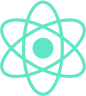
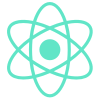
image and button centering fixes

diff --git a/index.html b/index.html
@@ -13,6 +13,10 @@
   <link href="https://fonts.googleapis.com/css?family=Montserrat:300,400" rel="stylesheet">
   <link rel="stylesheet" href="/css/bootstrap.css">
   <link rel="stylesheet" href="/css/style.css?2">
+  <link href="https://calendly.com/assets/external/widget.css" rel="stylesheet">
+
+  <script src="https://calendly.com/assets/external/widget.js" type="text/javascript"></script>
+
 </head>
 <body>
   <div class="green-section section">
@@ -20,7 +24,7 @@
       <div class="row">
         <div class="col-sm-12">
           <div class="logo-container">
-            <img src="/images/logo.png" alt="">
+            <img src="/images/logo.png" alt="" style="width:150px;">
           </div>
           <h1>
             Chemistry &amp; Math Tutoring
@@ -80,17 +84,11 @@
           </ul>
         </div>
       </div>
-      <div class="row">
+      <div class="row center">
         <div class="col-sm-8 col-sm-offset-2">
-          <p style="margin:0px;">
-<!-- Calendly link widget begin -->
-<link href="https://calendly.com/assets/external/widget.css" rel="stylesheet">
-<script src="https://calendly.com/assets/external/widget.js" type="text/javascript"></script>
-<a href="" onclick="Calendly.showPopupWidget('https://calendly.com/chemhelp');return false;">
-  <button class="btn btn-lg" style="background-color:#000; color:#fff ; padding: 15px 30px;">Schedule Now</button>
-            </a>
-<!-- Calendly link widget end -->
-          </p>
+          <a href="" onclick="Calendly.showPopupWidget('https://calendly.com/chemhelp');return false;">
+            <button class="btn btn-lg" style="background-color:#000; color:#fff ; padding: 15px 30px;">Schedule Now</button>
+          </a>
         </div>
       </div>
     </div>
@@ -125,11 +123,11 @@
               <form method="POST" action="https://formspree.io/ejr2167@columbia.edu">
                 <div class="form-group">
                   <label for="name">Name</label>
-                  <input type="name" name="name" placeholder="Name" class="form-control">
+                  <input type="name" name="name" placeholder="Name" class="form-control" required>
                 </div>
                 <div class="form-group">
                   <label for="email">Email</label>
-                  <input type="email" name="email" placeholder="Email" class="form-control">
+                  <input type="email" name="email" placeholder="Email" class="form-control" required>
                 </div>
                 <div class="form-group">
                   <label for="phone">Phone</label>
